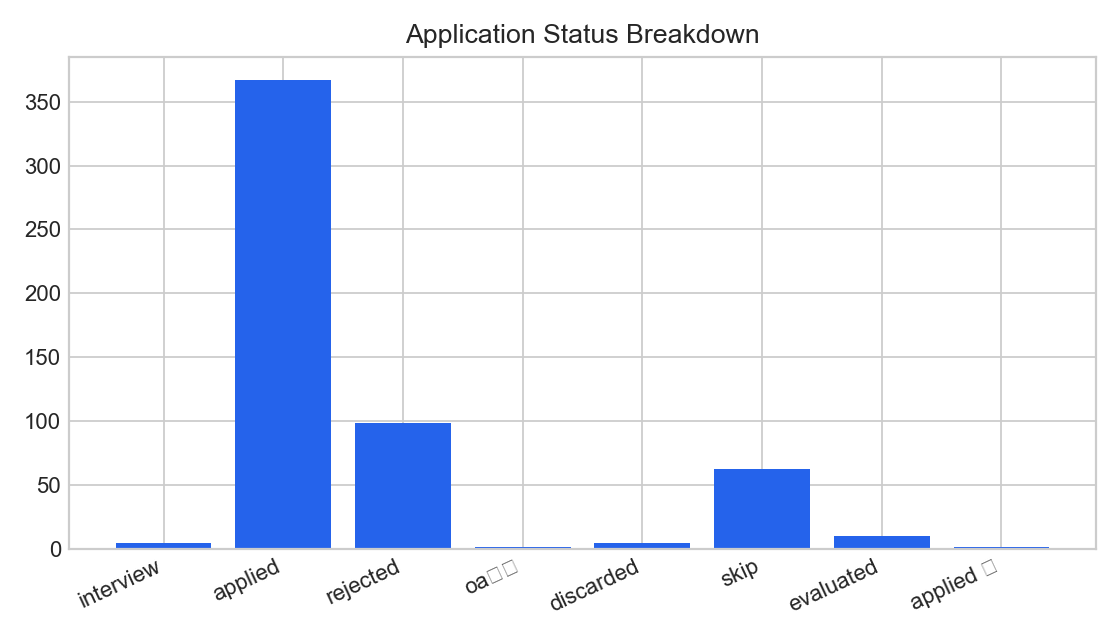
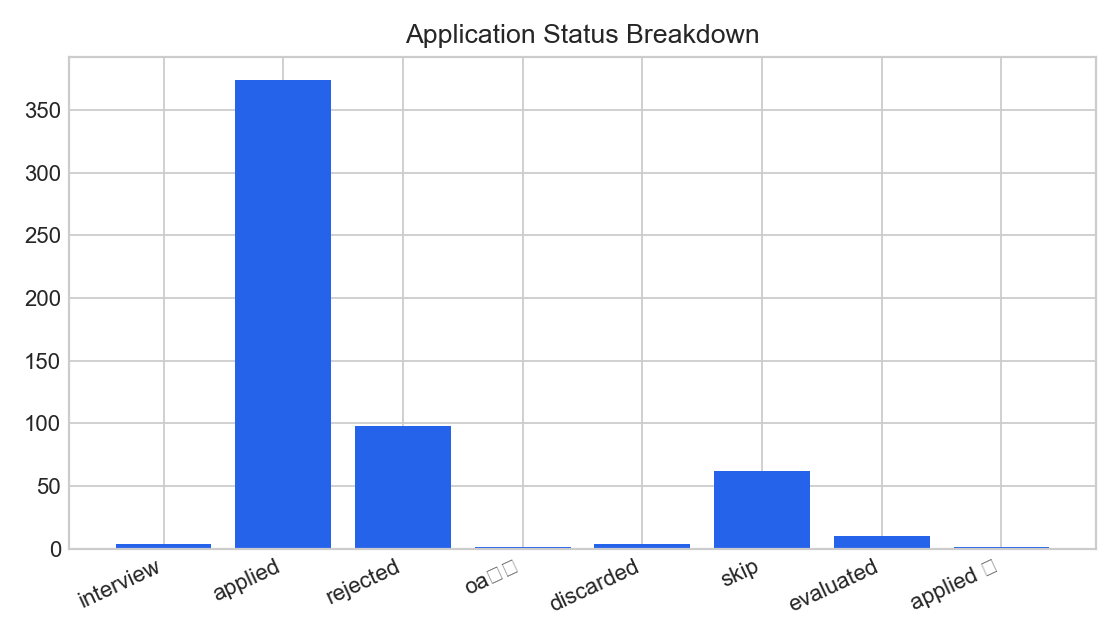
Refresh analytics for 705 merged roles (2026-07-24)

diff --git a/data/daily_summary.md b/data/daily_summary.md
@@ -1,6 +1,6 @@
 # Daily Job Search Summary
 
-_Last refreshed: 2026-07-23T22:00:17-07:00_
+_Last refreshed: 2026-07-24T23:56:21-07:00_
 
 ## Positioning
 
@@ -10,9 +10,9 @@ _Last refreshed: 2026-07-23T22:00:17-07:00_
 
 ## Snapshot
 
-- Tracked roles: 698
-- Active roles: 381
-- Response rate: 0.9%
+- Tracked roles: 705
+- Active roles: 388
+- Response rate: 0.8%
 - LinkedIn outreach sent: 28
 - Pending pipeline items: 155
 - Recommended pipeline items: 36
@@ -20,7 +20,7 @@ _Last refreshed: 2026-07-23T22:00:17-07:00_
 
 ## Status Breakdown
 
-- applied: 367
+- applied: 374
 - applied ✅: 1
 - discarded: 4
 - evaluated: 10
@@ -31,16 +31,16 @@ _Last refreshed: 2026-07-23T22:00:17-07:00_
 
 ## Recent Activity
 
+- 2026-07-24: Tapcheck | Data Analyst | applied
+- 2026-07-24: Liberty Mutual | Analyst/Senior Analyst, Advanced Analytics | applied
+- 2026-07-24: Fanatics | Data Scientist | applied
+- 2026-07-24: Patterson-UTI | Drilling Data Analyst- MSD | applied
+- 2026-07-24: Finch | Product Analyst | applied
+- 2026-07-24: Hyundai | Application Data Quality Associate | applied
+- 2026-07-24: Prime Healthcare | Business Analyst I | applied
 - 2026-07-23: Comagine Health | Healthcare Data Analyst | applied
 - 2026-07-23: Kalshi | Surveillance Analyst | applied
 - 2026-07-23: Stride | Data Science Analyst | applied
-- 2026-07-22: Google | Data Engineer, GCS Data Science | applied
-- 2026-07-22: University of Rochester | Data Scientist | applied
-- 2026-07-22: Grant Street | Business Analyst | applied
-- 2026-07-22: QuestBridge | Data Analyst | applied
-- 2026-07-22: Vistra | Associate Data Analyst-Retail | applied
-- 2026-07-22: Impiricus | Data Analyst | applied
-- 2026-07-22: Truemed | Data Analyst | applied
 
 ## Recommended Opportunity Queue
 
@@ -62,13 +62,13 @@ _Last refreshed: 2026-07-23T22:00:17-07:00_
 
 ## Needs Attention
 
-- Microsoft | Applied Scientist: Microsoft AI Development Acceleration Program | 133 days with no response
-- Nvidia | Deep Learning Architect, LLM Inference - New College Grad 2026 | 133 days with no response
-- Google | Software Engineer II, Early Career | 129 days with no response
-- Apple | AIML - Machine Learning Research | 122 days with no response
-- Amazon | Data Engineer II | 120 days with no response
-- Amazon | Software Development Engineer – Amazon Leo (US) | 120 days with no response
-- Amazon | Software Development Engineer - 2026 (US) | 120 days with no response
-- Amazon | 软件开发工程师, (New graduate or Entry-level Engineer, 0-2 Years) | 120 days with no response
-- Esri | Product Test Engineer II - Feature Server | 120 days with no response
-- Esri | Product Engineer II - ArcGIS Enterprise Sharing API | 120 days with no response
+- Microsoft | Applied Scientist: Microsoft AI Development Acceleration Program | 134 days with no response
+- Nvidia | Deep Learning Architect, LLM Inference - New College Grad 2026 | 134 days with no response
+- Google | Software Engineer II, Early Career | 130 days with no response
+- Apple | AIML - Machine Learning Research | 123 days with no response
+- Amazon | Data Engineer II | 121 days with no response
+- Amazon | Software Development Engineer – Amazon Leo (US) | 121 days with no response
+- Amazon | Software Development Engineer - 2026 (US) | 121 days with no response
+- Amazon | 软件开发工程师, (New graduate or Entry-level Engineer, 0-2 Years) | 121 days with no response
+- Esri | Product Test Engineer II - Feature Server | 121 days with no response
+- Esri | Product Engineer II - ArcGIS Enterprise Sharing API | 121 days with no response
